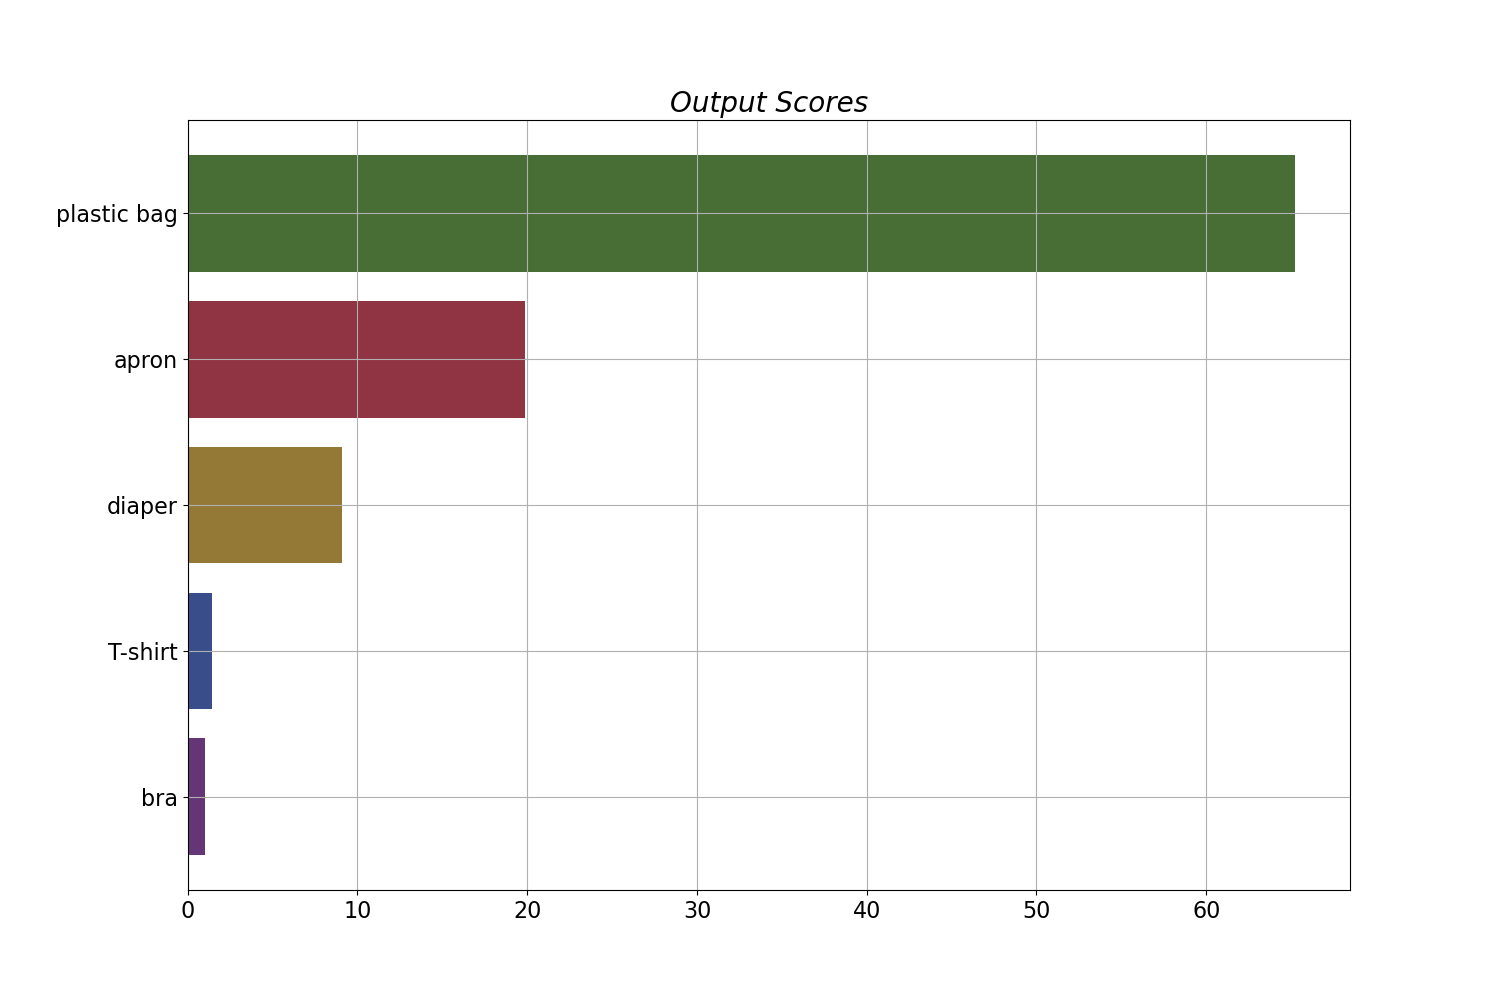
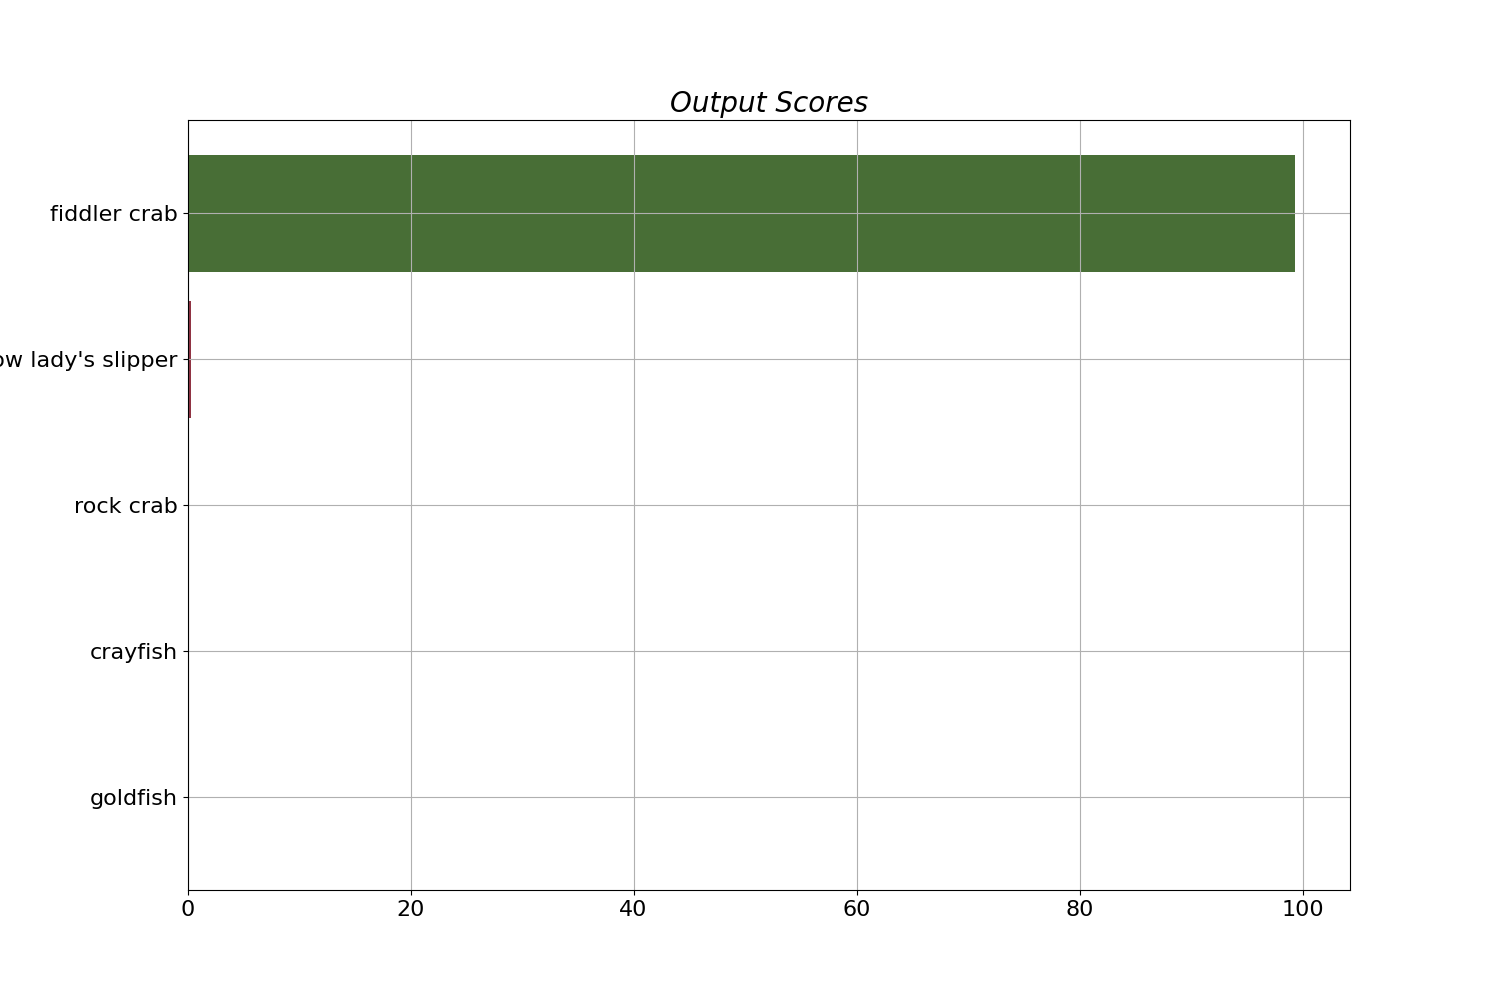
Correcting changes

diff --git a/app/templates/classification_output_from_upload.html b/app/templates/classification_output_from_upload.html
@@ -1,0 +1,40 @@
+{% extends "base.html" %}
+
+{% block content %}
+
+    <style>
+        .large-front-thumbnail {
+            position: relative;
+            max-width: 100%;
+            height: auto;
+            display: block;
+            margin: 0 auto;
+        }
+
+    </style>
+    <div class="row">
+        <div class="col">
+            <div class="card">
+                <img class="large-front-thumbnail"
+                     src="{{ 'static/imagenet_subset/'+image_id }} "
+                     alt={{ image_id }}/>
+            </div>
+        </div>
+        <div class="col">
+            <div class="card">
+                <div class="row">
+                    <canvas id="classificationOutput" style="width: 50%; margin: auto; padding: 20px;"></canvas>
+                    <div class="align-items-center">
+                        <h2 id="waitText"></h2>
+                    </div>
+                </div>
+                <a class="btn btn-primary" href="/classifications" role="button">Back</a>
+            </div>
+        </div>
+    </div>
+
+    <script src="{{ "static/graph.js" }}" id="makeGraph" classification_scores="{{classification_scores}}"></script>
+{% endblock %}
+
+
+

diff --git a/main.py b/main.py
@@ -16,6 +16,7 @@ from app.config import Configuration
 from app.forms.classification_form import ClassificationForm
 from app.ml.classification_utils import classify_image
 from app.ml.image_transformation import change_sharpness
+from app.ml.image_uploader import upload_image
 from app.utils import list_images
 from app.data_storage import result_storage
 from fastapi.responses import FileResponse
@@ -122,7 +123,7 @@ async def create_upload_image(request: Request, file: UploadFile = File(...)):
     classification_scores = classify_image(model_id=model_id, img_id=image_id)
 
     return templates.TemplateResponse(
-        "classification_output.html",
+        "classification_output_from_upload.html",
         {"request": request,
          "image_id": image_id,
          "classification_scores": json.dumps(classification_scores),
